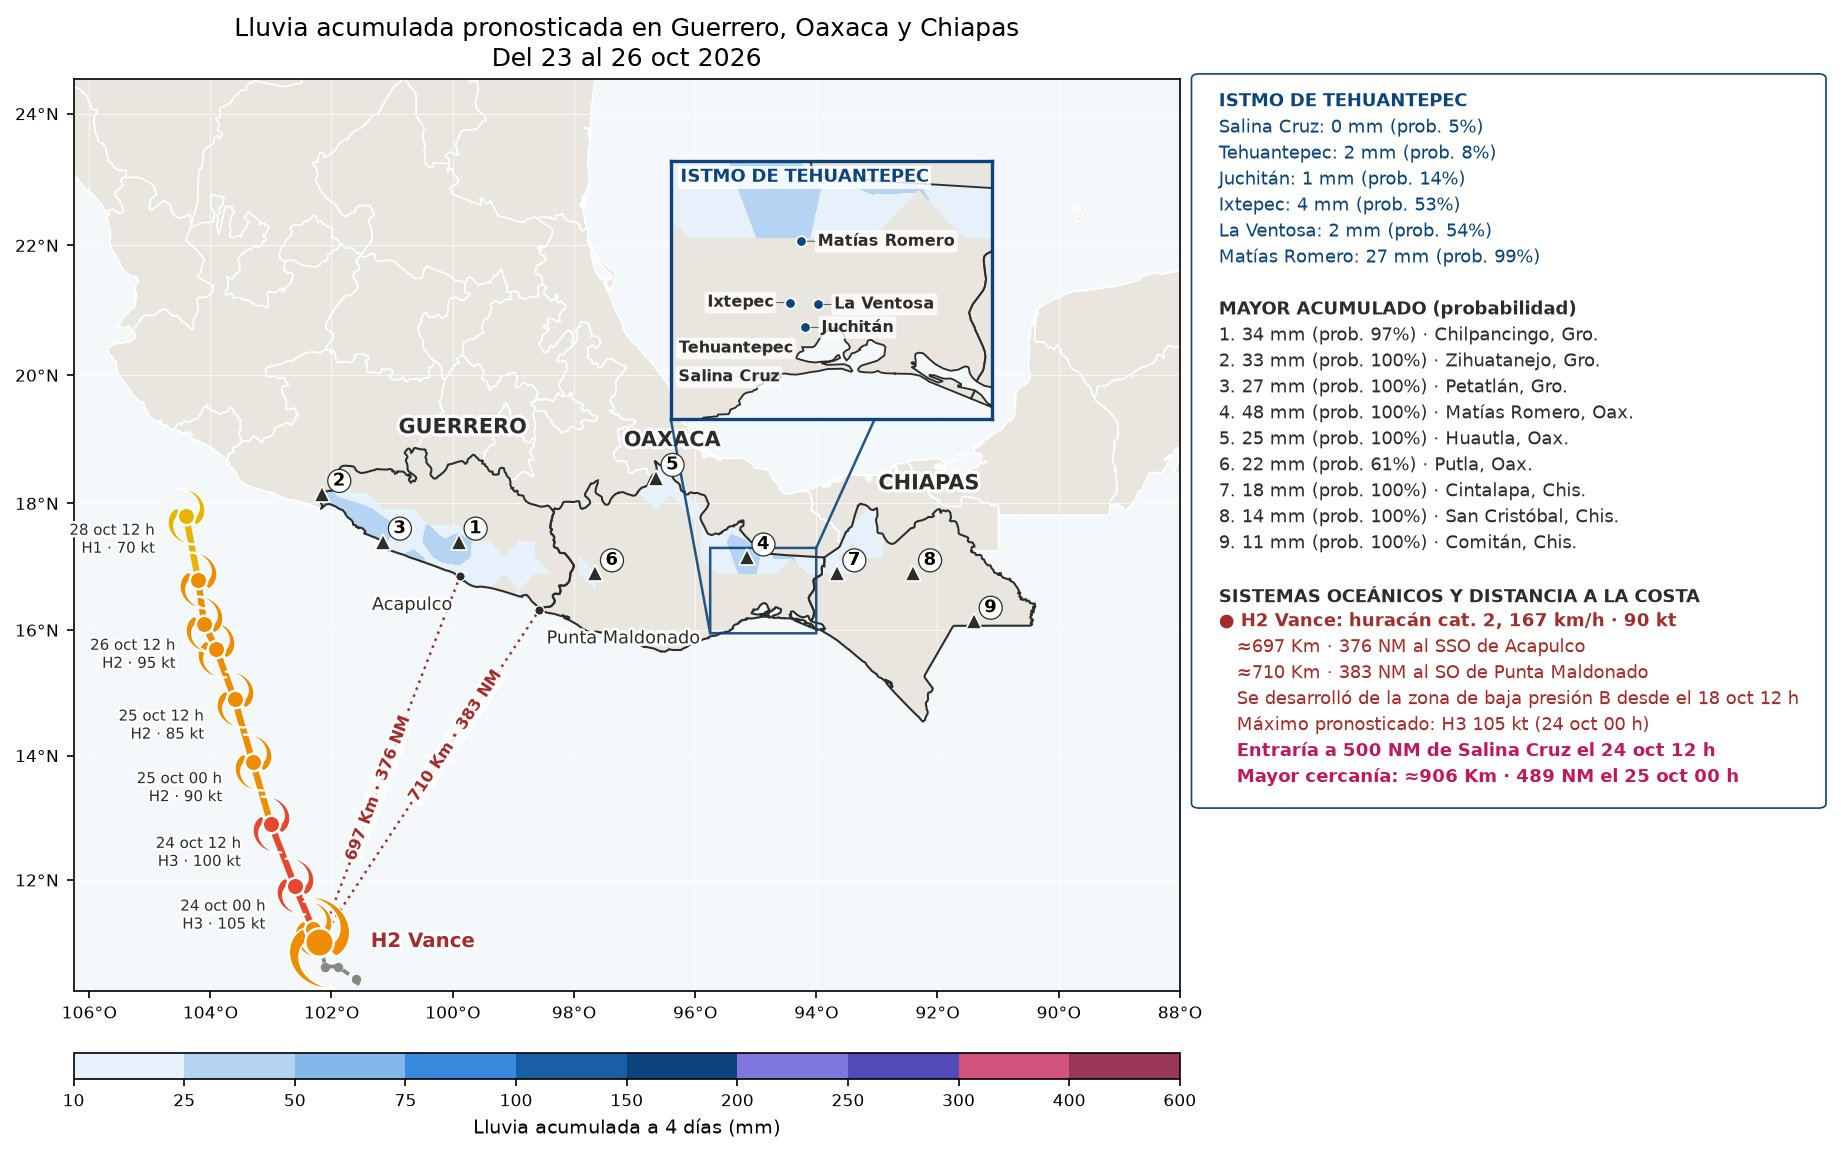
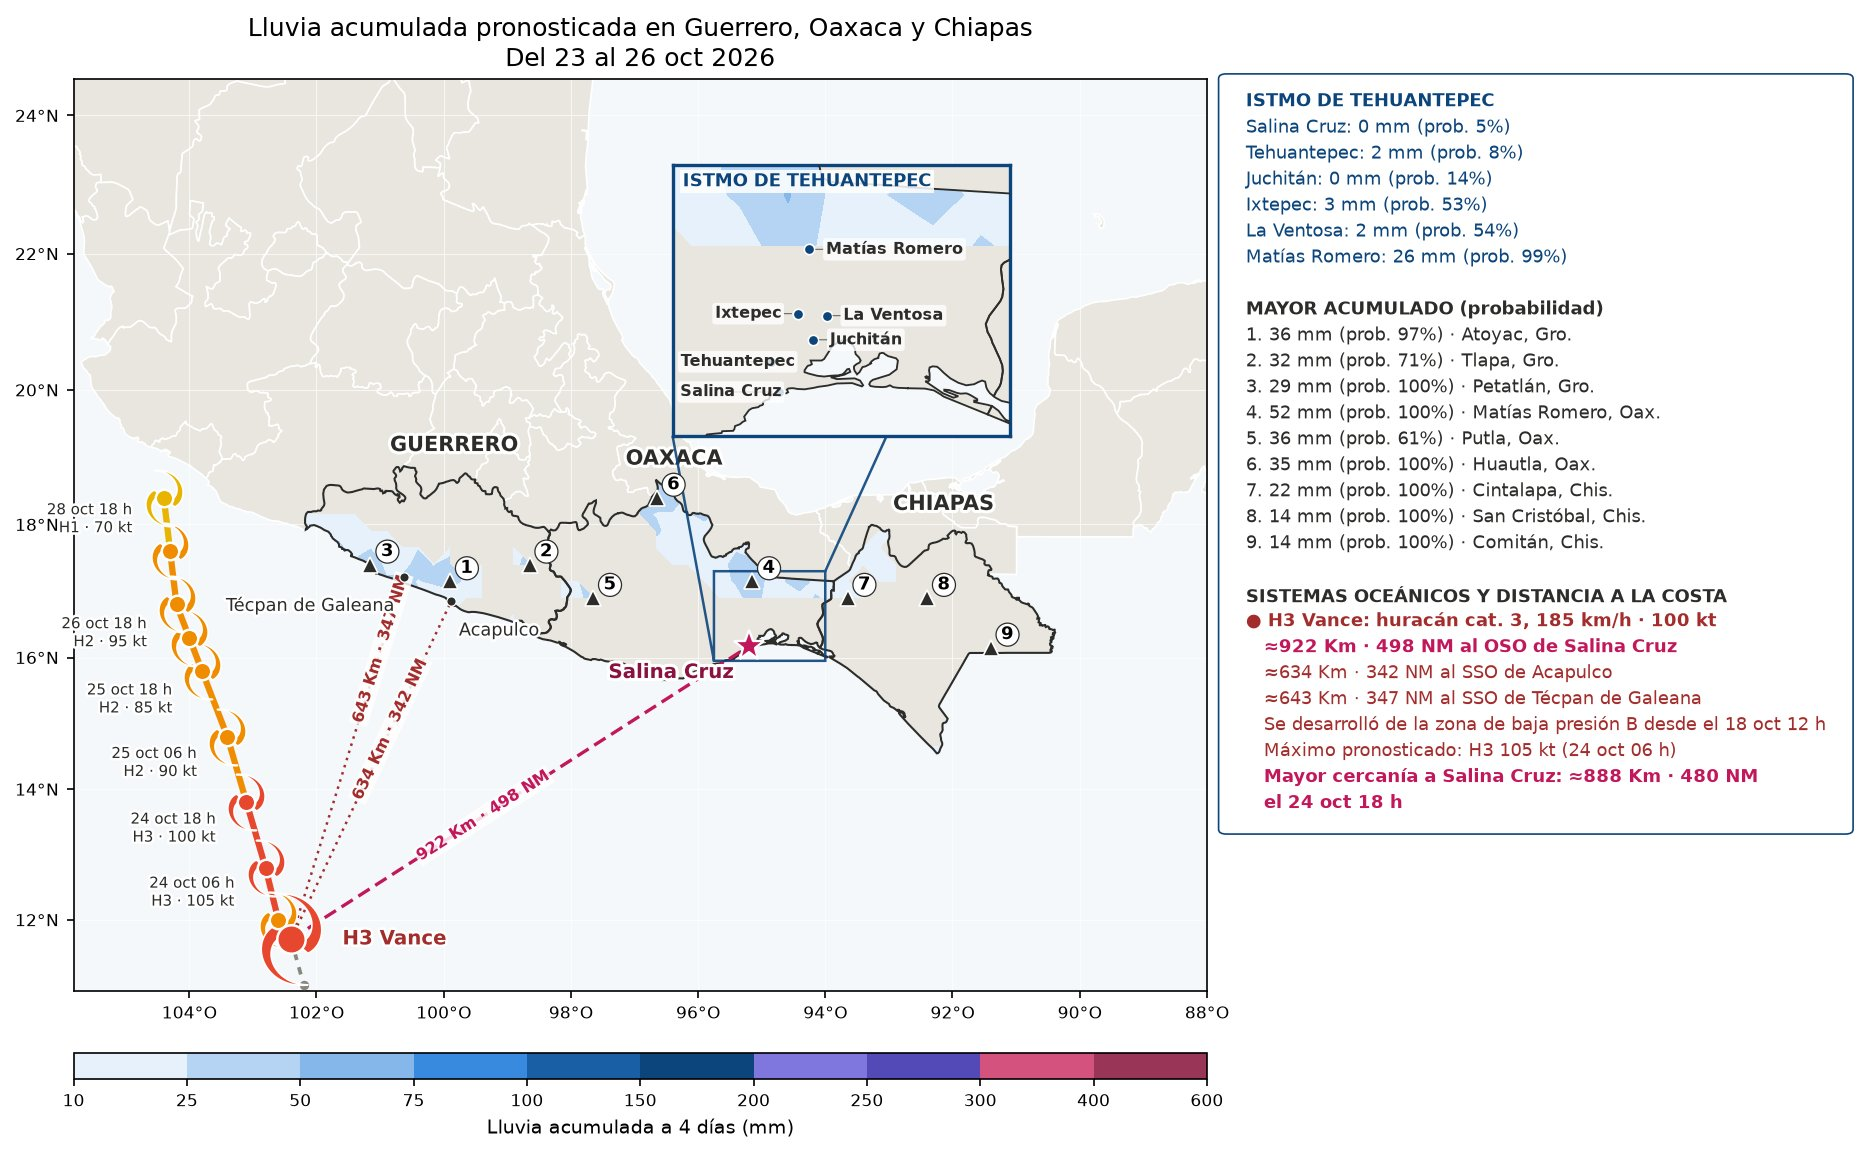
Monitor 23/10 21:10 (mapas nuevos)

diff --git a/index.html b/index.html
@@ -62,7 +62,7 @@ pre{overflow-x:auto;font-size:.75rem;background:var(--bg);padding:10px;border-ra
 <section class="t" id="sec_log"><details><summary>Registro (últimas líneas)</summary><pre id="log"></pre></details></section>
 </main>
 <div id="zoom"><img alt=""></div>
-<script id="datos" type="application/json">{"generado": "2026-10-23T20:27:04.453943", "ultima_revision": "2026-10-23T20:27:04.408886", "decision": "cambios menores en espera", "ultima_imagen": "2026-10-23T18:00:44.711869", "motivo_imagen": "cambios acumulados en 3 h: modelo", "pendientes": ["modelo"], "intervalo_h": 3, "resumen": {"ciclones": {"ep222026": {"nombre": "Vance", "kt": 90, "cat": "H2"}}, "zonas": []}, "historial": [{"fecha": "2026-10-21T17:50:14.361831", "motivo": "cambios acumulados en 3 h: modelo"}, {"fecha": "2026-10-21T21:00:41.013700", "motivo": "cambios acumulados en 3 h: modelo"}, {"fecha": "2026-10-22T00:07:16.005030", "motivo": "cambios acumulados en 3 h: nhc"}, {"fecha": "2026-10-22T03:17:15.474786", "motivo": "cambios acumulados en 3 h: nhc"}, {"fecha": "2026-10-22T06:30:19.909550", "motivo": "cambios acumulados en 3 h: modelo"}, {"fecha": "2026-10-22T09:40:18.265752", "motivo": "cambios acumulados en 3 h: nhc, modelo"}, {"fecha": "2026-10-22T13:37:25.982695", "motivo": "manual (--forzar)"}, {"fecha": "2026-10-22T16:50:12.796107", "motivo": "cambios acumulados en 3 h: nhc, modelo"}, {"fecha": "2026-10-22T20:00:33.390363", "motivo": "cambios acumulados en 3 h: modelo"}, {"fecha": "2026-10-22T23:07:14.363150", "motivo": "cambios acumulados en 3 h: nhc"}, {"fecha": "2026-10-23T03:07:13.407994", "motivo": "CAMBIO SIGNIFICATIVO: Vance cambió de categoría TT → H1"}, {"fecha": "2026-10-23T06:24:52.066568", "motivo": "cambios acumulados en 3 h: modelo"}, {"fecha": "2026-10-23T09:30:17.759506", "motivo": "cambios acumulados en 3 h: nhc, modelo"}, {"fecha": "2026-10-23T14:47:14.365047", "motivo": "CAMBIO SIGNIFICATIVO: Vance cambió de categoría H1 → H2"}, {"fecha": "2026-10-23T18:00:44.711869", "motivo": "cambios acumulados en 3 h: modelo"}], "imagenes": {"lluvia": {"src": "lluvia.jpg?v=202610231800", "fecha": "2026-10-23T18:00:37.839104"}, "viento": {"src": "viento.jpg?v=202610231800", "fecha": "2026-10-23T18:00:43.006332"}}, "log": [], "umbral_av": 50, "umbral_mal": 110}</script>
+<script id="datos" type="application/json">{"generado": "2026-10-23T21:10:22.486894", "ultima_revision": "2026-10-23T21:10:22.420281", "decision": "imágenes generadas", "ultima_imagen": "2026-10-23T21:10:22.420281", "motivo_imagen": "cambios acumulados en 3 h: nhc, modelo", "pendientes": [], "intervalo_h": 3, "resumen": {"ciclones": {"ep222026": {"nombre": "Vance", "kt": 95, "cat": "H2"}}, "zonas": []}, "historial": [{"fecha": "2026-10-21T21:00:41.013700", "motivo": "cambios acumulados en 3 h: modelo"}, {"fecha": "2026-10-22T00:07:16.005030", "motivo": "cambios acumulados en 3 h: nhc"}, {"fecha": "2026-10-22T03:17:15.474786", "motivo": "cambios acumulados en 3 h: nhc"}, {"fecha": "2026-10-22T06:30:19.909550", "motivo": "cambios acumulados en 3 h: modelo"}, {"fecha": "2026-10-22T09:40:18.265752", "motivo": "cambios acumulados en 3 h: nhc, modelo"}, {"fecha": "2026-10-22T13:37:25.982695", "motivo": "manual (--forzar)"}, {"fecha": "2026-10-22T16:50:12.796107", "motivo": "cambios acumulados en 3 h: nhc, modelo"}, {"fecha": "2026-10-22T20:00:33.390363", "motivo": "cambios acumulados en 3 h: modelo"}, {"fecha": "2026-10-22T23:07:14.363150", "motivo": "cambios acumulados en 3 h: nhc"}, {"fecha": "2026-10-23T03:07:13.407994", "motivo": "CAMBIO SIGNIFICATIVO: Vance cambió de categoría TT → H1"}, {"fecha": "2026-10-23T06:24:52.066568", "motivo": "cambios acumulados en 3 h: modelo"}, {"fecha": "2026-10-23T09:30:17.759506", "motivo": "cambios acumulados en 3 h: nhc, modelo"}, {"fecha": "2026-10-23T14:47:14.365047", "motivo": "CAMBIO SIGNIFICATIVO: Vance cambió de categoría H1 → H2"}, {"fecha": "2026-10-23T18:00:44.711869", "motivo": "cambios acumulados en 3 h: modelo"}, {"fecha": "2026-10-23T21:10:22.420281", "motivo": "cambios acumulados en 3 h: nhc, modelo"}], "imagenes": {"lluvia": {"src": "lluvia.jpg?v=202610232110", "fecha": "2026-10-23T21:10:15.794601"}, "viento": {"src": "viento.jpg?v=202610232110", "fecha": "2026-10-23T21:10:20.634344"}}, "log": [], "umbral_av": 50, "umbral_mal": 110}</script>
 <script>
 const D = JSON.parse(document.getElementById("datos").textContent);
 const $ = id => document.getElementById(id);
